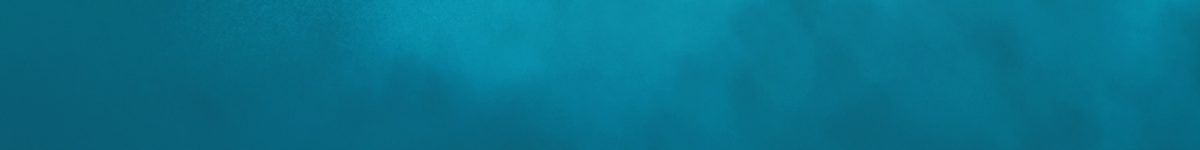
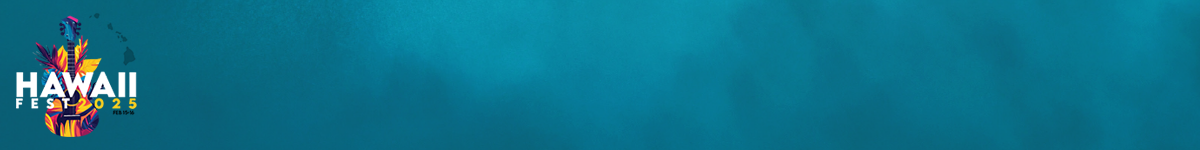
footer

Changed region(s): [[0.0, 0.1067, 0.1233, 0.9067]]

diff --git a/sig.html b/sig.html
@@ -7,7 +7,7 @@
 </head>
 <body>
     <div style="display: flex; flex-direction: row; width: 100%;">
-        <div style="width: 150px; height: 150px; background-color: red;">
+        <div style="width: 150px; height: 150px; z-index: 2;">
             <img src="https://hawaiifest.netlify.app/images/logo.png" alt="">
         </div>
         <div style="width: 100%; height: 150px;">
